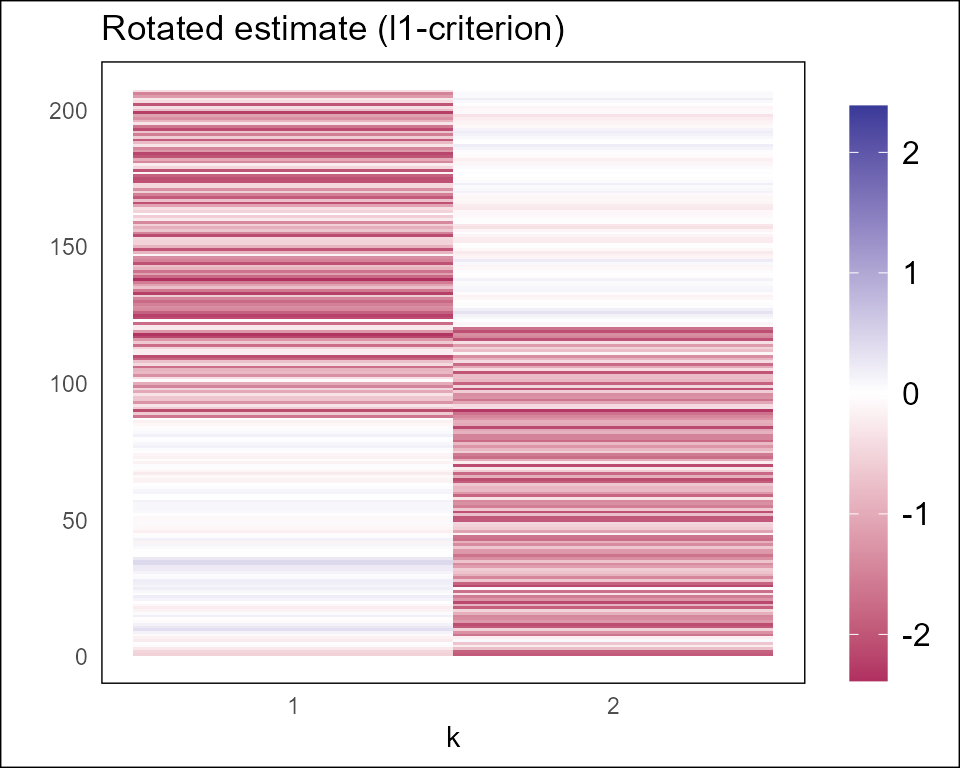
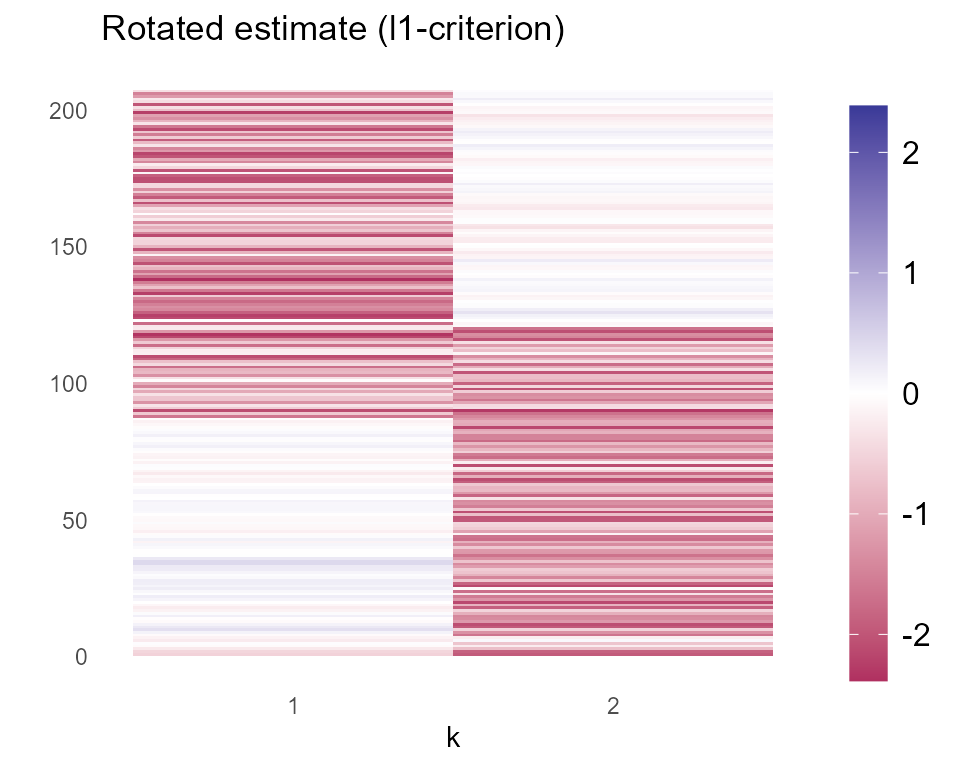
use white bg for plots, recompile site

diff --git a/docs/articles/documentation.html b/docs/articles/documentation.html
@@ -80,7 +80,7 @@
 <h2 id="intro">Introduction<a class="anchor" aria-label="anchor" href="#intro"></a>
 </h2>
 <div class="sourceCode" id="cb1"><pre class="downlit sourceCode r">
-<code class="sourceCode R"><span><span class="kw"><a href="https://rdrr.io/r/base/library.html" class="external-link">library</a></span><span class="op">(</span><span class="va"><a href="https://github.com/SimonFreyaldenhoven/l1rotation" class="external-link">l1rotation</a></span><span class="op">)</span></span></code></pre></div>
+<code class="sourceCode R"><span><span class="kw"><a href="https://rdrr.io/r/base/library.html" class="external-link">library</a></span><span class="op">(</span><span class="va"><a href="https://kobleary.github.io/l1rotation/">l1rotation</a></span><span class="op">)</span></span></code></pre></div>
 <p>The <code>l1rotation</code> package offers functionality to estimate
 the loadings matrix in factor models based on the l1-rotation criterion
 following <a href="https://simonfreyaldenhoven.github.io/papers/factor_rotation.pdf" class="external-link">Freyaldenhoven
@@ -172,13 +172,7 @@ contrasting the initial estimate <span class="math inline">\(\Lambda_0\)</span>,
 rotated estimate, <span class="math inline">\(\hat{\Lambda}^*\)</span>,
 <code>rotated_plot</code>.</p>
 <div class="sourceCode" id="cb5"><pre class="downlit sourceCode r">
-<code class="sourceCode R"><span><span class="va">lf</span><span class="op">$</span><span class="va">pc_plot</span> <span class="op">+</span> </span>
-<span>  <span class="fu">ggplot2</span><span class="fu">::</span><span class="fu"><a href="https://ggplot2.tidyverse.org/reference/theme.html" class="external-link">theme</a></span><span class="op">(</span></span>
-<span>      axis.ticks <span class="op">=</span> <span class="fu">ggplot2</span><span class="fu">::</span><span class="fu"><a href="https://ggplot2.tidyverse.org/reference/element.html" class="external-link">element_blank</a></span><span class="op">(</span><span class="op">)</span>,</span>
-<span>      panel.grid <span class="op">=</span> <span class="fu">ggplot2</span><span class="fu">::</span><span class="fu"><a href="https://ggplot2.tidyverse.org/reference/element.html" class="external-link">element_blank</a></span><span class="op">(</span><span class="op">)</span>,</span>
-<span>      panel.background <span class="op">=</span> <span class="fu">ggplot2</span><span class="fu">::</span><span class="fu"><a href="https://ggplot2.tidyverse.org/reference/element.html" class="external-link">element_rect</a></span><span class="op">(</span>fill <span class="op">=</span> <span class="st">"white"</span><span class="op">)</span>,</span>
-<span>      plot.background <span class="op">=</span> <span class="fu">ggplot2</span><span class="fu">::</span><span class="fu"><a href="https://ggplot2.tidyverse.org/reference/element.html" class="external-link">element_rect</a></span><span class="op">(</span>fill <span class="op">=</span> <span class="st">"white"</span><span class="op">)</span></span>
-<span>    <span class="op">)</span></span></code></pre></div>
+<code class="sourceCode R"><span><span class="va">lf</span><span class="op">$</span><span class="va">pc_plot</span></span></code></pre></div>
 <p><img src="documentation_files/figure-html/unnamed-chunk-5-1.png" width="480" style="display: block; margin: auto;"></p>
 <p>In the initial principal component estimate, recall that each factor
 is simply a principal component. Of the 207 variables in <span class="math inline">\(X\)</span>, the first factor loads negatively
@@ -188,13 +182,7 @@ between variables 125 and 200 and slightly negative loadings elsewhere.
 However, it may be difficult to interpret the relationship between
 variables and factors when all loadings are nonzero.</p>
 <div class="sourceCode" id="cb6"><pre class="downlit sourceCode r">
-<code class="sourceCode R"><span><span class="va">lf</span><span class="op">$</span><span class="va">rotated_plot</span> <span class="op">+</span> </span>
-<span>  <span class="fu">ggplot2</span><span class="fu">::</span><span class="fu"><a href="https://ggplot2.tidyverse.org/reference/theme.html" class="external-link">theme</a></span><span class="op">(</span></span>
-<span>      axis.ticks <span class="op">=</span> <span class="fu">ggplot2</span><span class="fu">::</span><span class="fu"><a href="https://ggplot2.tidyverse.org/reference/element.html" class="external-link">element_blank</a></span><span class="op">(</span><span class="op">)</span>,</span>
-<span>      panel.grid <span class="op">=</span> <span class="fu">ggplot2</span><span class="fu">::</span><span class="fu"><a href="https://ggplot2.tidyverse.org/reference/element.html" class="external-link">element_blank</a></span><span class="op">(</span><span class="op">)</span>,</span>
-<span>      panel.background <span class="op">=</span> <span class="fu">ggplot2</span><span class="fu">::</span><span class="fu"><a href="https://ggplot2.tidyverse.org/reference/element.html" class="external-link">element_rect</a></span><span class="op">(</span>fill <span class="op">=</span> <span class="st">"white"</span><span class="op">)</span>,</span>
-<span>      plot.background <span class="op">=</span> <span class="fu">ggplot2</span><span class="fu">::</span><span class="fu"><a href="https://ggplot2.tidyverse.org/reference/element.html" class="external-link">element_rect</a></span><span class="op">(</span>fill <span class="op">=</span> <span class="st">"white"</span><span class="op">)</span></span>
-<span>    <span class="op">)</span></span></code></pre></div>
+<code class="sourceCode R"><span><span class="va">lf</span><span class="op">$</span><span class="va">rotated_plot</span></span></code></pre></div>
 <p><img src="documentation_files/figure-html/unnamed-chunk-6-1.png" width="480" style="display: block; margin: auto;"></p>
 <p>The second estimate is a rotated version of the principal components
 estimator optimized for sparsity. It will rotate each vector of the
@@ -287,13 +275,7 @@ in the true loadings matrix, this procedure will recover it.</li>
 <span>  <span class="fu">ggplot2</span><span class="fu">::</span><span class="fu"><a href="https://ggplot2.tidyverse.org/reference/labs.html" class="external-link">labs</a></span><span class="op">(</span></span>
 <span>    title <span class="op">=</span> <span class="st">'Number of "small" loadings per factor'</span>, </span>
 <span>    caption <span class="op">=</span> <span class="fu"><a href="https://rdrr.io/r/base/paste.html" class="external-link">paste</a></span><span class="op">(</span><span class="st">'"Small" is defined as loadings less than'</span>, <span class="va">round_hn</span><span class="op">)</span></span>
-<span>  <span class="op">)</span> <span class="op">+</span> </span>
-<span>  <span class="fu">ggplot2</span><span class="fu">::</span><span class="fu"><a href="https://ggplot2.tidyverse.org/reference/theme.html" class="external-link">theme</a></span><span class="op">(</span></span>
-<span>      axis.ticks <span class="op">=</span> <span class="fu">ggplot2</span><span class="fu">::</span><span class="fu"><a href="https://ggplot2.tidyverse.org/reference/element.html" class="external-link">element_blank</a></span><span class="op">(</span><span class="op">)</span>,</span>
-<span>      panel.grid <span class="op">=</span> <span class="fu">ggplot2</span><span class="fu">::</span><span class="fu"><a href="https://ggplot2.tidyverse.org/reference/element.html" class="external-link">element_blank</a></span><span class="op">(</span><span class="op">)</span>,</span>
-<span>      panel.background <span class="op">=</span> <span class="fu">ggplot2</span><span class="fu">::</span><span class="fu"><a href="https://ggplot2.tidyverse.org/reference/element.html" class="external-link">element_rect</a></span><span class="op">(</span>fill <span class="op">=</span> <span class="st">"white"</span><span class="op">)</span>,</span>
-<span>      plot.background <span class="op">=</span> <span class="fu">ggplot2</span><span class="fu">::</span><span class="fu"><a href="https://ggplot2.tidyverse.org/reference/element.html" class="external-link">element_rect</a></span><span class="op">(</span>fill <span class="op">=</span> <span class="st">"white"</span><span class="op">)</span></span>
-<span>    <span class="op">)</span></span></code></pre></div>
+<span>  <span class="op">)</span></span></code></pre></div>
 <p><img src="documentation_files/figure-html/unnamed-chunk-9-1.png" width="480" style="display: block; margin: auto;"></p>
 <p>Finally, given the testing plot above, we can conclude that factors 1
 and 2 are likely local since they have enough “small” loadings (i.e.,

diff --git a/docs/reference/example_data.html b/docs/reference/example_data.html
@@ -1,5 +1,5 @@
 <!DOCTYPE html>
-<!-- Generated by pkgdown: do not edit by hand --><html lang="en"><head><meta http-equiv="Content-Type" content="text/html; charset=UTF-8"><meta charset="utf-8"><meta http-equiv="X-UA-Compatible" content="IE=edge"><meta name="viewport" content="width=device-width, initial-scale=1, shrink-to-fit=no"><title>Example data with four factors from the replication files of Freyaldenhoven et. al (2023). — example_data • l1rotation</title><script src="../lightswitch.js"></script><script src="../deps/jquery-3.6.0/jquery-3.6.0.min.js"></script><meta name="viewport" content="width=device-width, initial-scale=1, shrink-to-fit=no"><link href="../deps/bootstrap-5.3.1/bootstrap.min.css" rel="stylesheet"><script src="../deps/bootstrap-5.3.1/bootstrap.bundle.min.js"></script><link href="../deps/font-awesome-6.5.2/css/all.min.css" rel="stylesheet"><link href="../deps/font-awesome-6.5.2/css/v4-shims.min.css" rel="stylesheet"><script src="../deps/headroom-0.11.0/headroom.min.js"></script><script src="../deps/headroom-0.11.0/jQuery.headroom.min.js"></script><script src="../deps/bootstrap-toc-1.0.1/bootstrap-toc.min.js"></script><script src="../deps/clipboard.js-2.0.11/clipboard.min.js"></script><script src="../deps/search-1.0.0/autocomplete.jquery.min.js"></script><script src="../deps/search-1.0.0/fuse.min.js"></script><script src="../deps/search-1.0.0/mark.min.js"></script><script src="../deps/MathJax-3.2.2/tex-chtml.min.js"></script><!-- pkgdown --><script src="../pkgdown.js"></script><link href="../extra.css" rel="stylesheet"><meta property="og:title" content="Example data with four factors from the replication files of Freyaldenhoven et. al (2023). — example_data"><meta name="description" content="Example data with four factors from the replication files of Freyaldenhoven et. al (2023)."><meta property="og:description" content="Example data with four factors from the replication files of Freyaldenhoven et. al (2023)."></head><body>
+<!-- Generated by pkgdown: do not edit by hand --><html lang="en"><head><meta http-equiv="Content-Type" content="text/html; charset=UTF-8"><meta charset="utf-8"><meta http-equiv="X-UA-Compatible" content="IE=edge"><meta name="viewport" content="width=device-width, initial-scale=1, shrink-to-fit=no"><title>Example data with four factors from the replication files of Freyaldenhoven et. al (2025). — example_data • l1rotation</title><script src="../lightswitch.js"></script><script src="../deps/jquery-3.6.0/jquery-3.6.0.min.js"></script><meta name="viewport" content="width=device-width, initial-scale=1, shrink-to-fit=no"><link href="../deps/bootstrap-5.3.1/bootstrap.min.css" rel="stylesheet"><script src="../deps/bootstrap-5.3.1/bootstrap.bundle.min.js"></script><link href="../deps/font-awesome-6.5.2/css/all.min.css" rel="stylesheet"><link href="../deps/font-awesome-6.5.2/css/v4-shims.min.css" rel="stylesheet"><script src="../deps/headroom-0.11.0/headroom.min.js"></script><script src="../deps/headroom-0.11.0/jQuery.headroom.min.js"></script><script src="../deps/bootstrap-toc-1.0.1/bootstrap-toc.min.js"></script><script src="../deps/clipboard.js-2.0.11/clipboard.min.js"></script><script src="../deps/search-1.0.0/autocomplete.jquery.min.js"></script><script src="../deps/search-1.0.0/fuse.min.js"></script><script src="../deps/search-1.0.0/mark.min.js"></script><script src="../deps/MathJax-3.2.2/tex-chtml.min.js"></script><!-- pkgdown --><script src="../pkgdown.js"></script><link href="../extra.css" rel="stylesheet"><meta property="og:title" content="Example data with four factors from the replication files of Freyaldenhoven et. al (2025). — example_data"><meta name="description" content="Example data with four factors from the replication files of Freyaldenhoven et. al (2025)."><meta property="og:description" content="Example data with four factors from the replication files of Freyaldenhoven et. al (2025)."></head><body>
     <a href="#main" class="visually-hidden-focusable">Skip to contents</a>
 
 
@@ -40,13 +40,13 @@
 <div class="row">
   <main id="main" class="col-md-9"><div class="page-header">
 
-      <h1>Example data with four factors from the replication files of Freyaldenhoven et. al (2023).</h1>
+      <h1>Example data with four factors from the replication files of <a href="https://simonfreyaldenhoven.github.io/papers/factor_rotation.pdf" class="external-link">Freyaldenhoven et. al (2025)</a>.</h1>
       <small class="dont-index">Source: <a href="https://github.com/SimonFreyaldenhoven/l1rotation/blob/HEAD/R/data.R" class="external-link"><code>R/data.R</code></a></small>
       <div class="d-none name"><code>example_data.Rd</code></div>
     </div>
 
     <div class="ref-description section level2">
-    <p>Example data with four factors from the replication files of Freyaldenhoven et. al (2023).</p>
+    <p>Example data with four factors from the replication files of <a href="https://simonfreyaldenhoven.github.io/papers/factor_rotation.pdf" class="external-link">Freyaldenhoven et. al (2025)</a>.</p>
     </div>
 
     <div class="section level2">
@@ -67,7 +67,7 @@
     </div>
     <div class="section level2">
     <h2 id="source">Source<a class="anchor" aria-label="anchor" href="#source"></a></h2>
-    <p>Dataset available as a .mat file can be found under local_factors.zip <a href="https://simonfreyaldenhoven.github.io/software/" class="external-link">https://simonfreyaldenhoven.github.io/software/</a></p>
+    <p>Dataset available as a .mat file can be generated from local_factors.zip <a href="https://simonfreyaldenhoven.github.io/software/" class="external-link">https://simonfreyaldenhoven.github.io/software/</a></p>
     </div>
 
   </main><aside class="col-md-3"><nav id="toc" aria-label="Table of contents"><h2>On this page</h2>

diff --git a/docs/404.html b/docs/404.html
@@ -6,20 +6,20 @@
 <meta http-equiv="X-UA-Compatible" content="IE=edge">
 <meta name="viewport" content="width=device-width, initial-scale=1, shrink-to-fit=no">
 <title>Page not found (404) • l1rotation</title>
-<script src="lightswitch.js"></script><script src="deps/jquery-3.6.0/jquery-3.6.0.min.js"></script><meta name="viewport" content="width=device-width, initial-scale=1, shrink-to-fit=no">
-<link href="deps/bootstrap-5.3.1/bootstrap.min.css" rel="stylesheet">
-<script src="deps/bootstrap-5.3.1/bootstrap.bundle.min.js"></script><link href="deps/font-awesome-6.5.2/css/all.min.css" rel="stylesheet">
-<link href="deps/font-awesome-6.5.2/css/v4-shims.min.css" rel="stylesheet">
-<script src="deps/headroom-0.11.0/headroom.min.js"></script><script src="deps/headroom-0.11.0/jQuery.headroom.min.js"></script><script src="deps/bootstrap-toc-1.0.1/bootstrap-toc.min.js"></script><script src="deps/clipboard.js-2.0.11/clipboard.min.js"></script><script src="deps/search-1.0.0/autocomplete.jquery.min.js"></script><script src="deps/search-1.0.0/fuse.min.js"></script><script src="deps/search-1.0.0/mark.min.js"></script><script src="deps/MathJax-3.2.2/tex-chtml.min.js"></script><!-- pkgdown --><script src="pkgdown.js"></script><link href="extra.css" rel="stylesheet">
+<script src="https://kobleary.github.io/l1rotation/lightswitch.js"></script><script src="https://kobleary.github.io/l1rotation/deps/jquery-3.6.0/jquery-3.6.0.min.js"></script><meta name="viewport" content="width=device-width, initial-scale=1, shrink-to-fit=no">
+<link href="https://kobleary.github.io/l1rotation/deps/bootstrap-5.3.1/bootstrap.min.css" rel="stylesheet">
+<script src="https://kobleary.github.io/l1rotation/deps/bootstrap-5.3.1/bootstrap.bundle.min.js"></script><link href="https://kobleary.github.io/l1rotation/deps/font-awesome-6.5.2/css/all.min.css" rel="stylesheet">
+<link href="https://kobleary.github.io/l1rotation/deps/font-awesome-6.5.2/css/v4-shims.min.css" rel="stylesheet">
+<script src="https://kobleary.github.io/l1rotation/deps/headroom-0.11.0/headroom.min.js"></script><script src="https://kobleary.github.io/l1rotation/deps/headroom-0.11.0/jQuery.headroom.min.js"></script><script src="https://kobleary.github.io/l1rotation/deps/bootstrap-toc-1.0.1/bootstrap-toc.min.js"></script><script src="https://kobleary.github.io/l1rotation/deps/clipboard.js-2.0.11/clipboard.min.js"></script><script src="https://kobleary.github.io/l1rotation/deps/search-1.0.0/autocomplete.jquery.min.js"></script><script src="https://kobleary.github.io/l1rotation/deps/search-1.0.0/fuse.min.js"></script><script src="https://kobleary.github.io/l1rotation/deps/search-1.0.0/mark.min.js"></script><script src="https://kobleary.github.io/l1rotation/deps/MathJax-3.2.2/tex-chtml.min.js"></script><!-- pkgdown --><script src="https://kobleary.github.io/l1rotation/pkgdown.js"></script><link href="https://kobleary.github.io/l1rotation/extra.css" rel="stylesheet">
 <meta property="og:title" content="Page not found (404)">
 </head>
 <body>
-    <a href="#main" class="visually-hidden-focusable">Skip to contents</a>
+    <a href="https://kobleary.github.io/l1rotation/#main" class="visually-hidden-focusable">Skip to contents</a>
 
 
     <nav class="navbar navbar-expand-lg fixed-top " aria-label="Site navigation"><div class="container">
 
-    <a class="navbar-brand me-2" href="index.html">l1rotation</a>
+    <a class="navbar-brand me-2" href="https://kobleary.github.io/l1rotation/index.html">l1rotation</a>
 
     <small class="nav-text text-muted me-auto" data-bs-toggle="tooltip" data-bs-placement="bottom" title="">0.0.1</small>
 
@@ -30,16 +30,16 @@
 
     <div id="navbar" class="collapse navbar-collapse ms-3">
       <ul class="navbar-nav me-auto">
-<li class="nav-item"><a class="nav-link" href="reference/index.html">Reference</a></li>
+<li class="nav-item"><a class="nav-link" href="https://kobleary.github.io/l1rotation/reference/index.html">Reference</a></li>
 <li class="nav-item dropdown">
   <button class="nav-link dropdown-toggle" type="button" id="dropdown-articles" data-bs-toggle="dropdown" aria-expanded="false" aria-haspopup="true">Articles</button>
   <ul class="dropdown-menu" aria-labelledby="dropdown-articles">
-<li><a class="dropdown-item" href="articles/documentation.html">Getting Started</a></li>
-    <li><a class="dropdown-item" href="articles/intuition.html">Background and Intuition</a></li>
-    <li><a class="dropdown-item" href="articles/macro_application.html">Application</a></li>
+<li><a class="dropdown-item" href="https://kobleary.github.io/l1rotation/articles/documentation.html">Getting Started</a></li>
+    <li><a class="dropdown-item" href="https://kobleary.github.io/l1rotation/articles/intuition.html">Background and Intuition</a></li>
+    <li><a class="dropdown-item" href="https://kobleary.github.io/l1rotation/articles/macro_application.html">Application</a></li>
   </ul>
 </li>
-<li class="nav-item"><a class="nav-link" href="news/index.html">Changelog</a></li>
+<li class="nav-item"><a class="nav-link" href="https://kobleary.github.io/l1rotation/news/index.html">Changelog</a></li>
       </ul>
 <ul class="navbar-nav">
 <li class="nav-item"><form class="form-inline" role="search">

diff --git a/docs/articles/macro_application.html b/docs/articles/macro_application.html
@@ -81,10 +81,12 @@
 
     <section class="level2"><h2 id="macroeconomic-indicators">Macroeconomic Indicators<a class="anchor" aria-label="anchor" href="#macroeconomic-indicators"></a>
 </h2>
-<p>Let’s now apply the <code>l1rotation</code> package to a large panel of US macroeconomic indicators. The below dataset is the FRED_QD data collected and maintained by Michael W. McCracken available <a href="https://www.stlouisfed.org/research/economists/mccracken/fred-databases" class="external-link">here</a>. The below final sample is also used in the paper and can be found under the local_factors.zip <a href="https://simonfreyaldenhoven.github.io/software/" class="external-link">here</a>. Let’s read it in.</p>
+<p>Let’s now apply the <code>l1rotation</code> package to a large panel of US macroeconomic indicators, following one of the examples provided in <a href="https://simonfreyaldenhoven.github.io/papers/factor_rotation.pdf" class="external-link">Freyaldenhoven (2025)</a>. The below dataset is the FRED_QD data collected and maintained by Michael W. McCracken available <a href="https://www.stlouisfed.org/research/economists/mccracken/fred-databases" class="external-link">here</a>.</p>
+<p>This specific example uses data from 1967Q1-2019Q1 and follows transformations recommended by <a href="https://www.jstor.org/stable/44166591" class="external-link">McCracken and Ng (2016)</a> to remove outliers. All aggregated data series are dropped as well. So the final cleaned sample used in the paper and below consists of only disaggregated stationary time series and can be found <a href="https://raw.githubusercontent.com/kobleary/l1rotation/refs/heads/main/vignettes/fred.csv" class="external-link">here</a>. For more information, see the paper.</p>
+<p>Let’s read it in.</p>
 <div class="cell">
 <div class="sourceCode cell-code" id="cb1"><pre class="downlit sourceCode r">
-<code class="sourceCode R"><span><span class="kw"><a href="https://rdrr.io/r/base/library.html" class="external-link">library</a></span><span class="op">(</span><span class="va"><a href="https://github.com/SimonFreyaldenhoven/l1rotation" class="external-link">l1rotation</a></span><span class="op">)</span></span>
+<code class="sourceCode R"><span><span class="kw"><a href="https://rdrr.io/r/base/library.html" class="external-link">library</a></span><span class="op">(</span><span class="va"><a href="https://kobleary.github.io/l1rotation/">l1rotation</a></span><span class="op">)</span></span>
 <span></span>
 <span><span class="va">fred</span> <span class="op">&lt;-</span> <span class="fu"><a href="https://rdrr.io/r/utils/read.table.html" class="external-link">read.csv</a></span><span class="op">(</span><span class="fu"><a href="https://rdrr.io/r/base/file.path.html" class="external-link">file.path</a></span><span class="op">(</span><span class="va">me</span>, <span class="st">"fred.csv"</span><span class="op">)</span>, header <span class="op">=</span> <span class="cn">FALSE</span><span class="op">)</span></span>
 <span><span class="fu"><a href="https://rdrr.io/r/base/dim.html" class="external-link">dim</a></span><span class="op">(</span><span class="va">fred</span><span class="op">)</span></span>

diff --git a/docs/reference/index.html b/docs/reference/index.html
@@ -59,13 +59,13 @@
           <code><a href="example_data.html">example_data</a></code>
 
         </dt>
-        <dd>Example data with four factors from the replication files of Freyaldenhoven et. al (2023).</dd>
+        <dd>Example data with four factors from the replication files of <a href="https://simonfreyaldenhoven.github.io/papers/factor_rotation.pdf" class="external-link">Freyaldenhoven et. al (2025)</a>.</dd>
       </dl><dl><dt>
 
           <code><a href="find_local_factors.html">find_local_factors()</a></code>
 
         </dt>
-        <dd>Find the rotation of the loading matrix with the smallest l1-norm, as in <code><a href="https://rdrr.io/pkg/l1rotation/man/local_factors.html" class="external-link">local_factors()</a></code>, with additional flexibility.</dd>
+        <dd>Find the rotation of the loading matrix with the smallest l1-norm, as in <code><a href="../reference/local_factors.html">local_factors()</a></code>, with additional flexibility.</dd>
       </dl><dl><dt>
 
           <code><a href="local_factors.html">local_factors()</a></code>
@@ -77,7 +77,7 @@
           <code><a href="test_local_factors.html">test_local_factors()</a></code>
 
         </dt>
-        <dd>Test for the presence of local factors, as in <code><a href="https://rdrr.io/pkg/l1rotation/man/local_factors.html" class="external-link">local_factors()</a></code>, with additional flexibility.</dd>
+        <dd>Test for the presence of local factors, as in <code><a href="../reference/local_factors.html">local_factors()</a></code>, with additional flexibility.</dd>
       </dl></div>
   </main></div>
 

diff --git a/docs/index.html b/docs/index.html
@@ -86,7 +86,7 @@
 <p>Find a minimal example below. For more examples see the package <a href="https://cran.r-project.org/package=l1rotation/l1rotation.pdf" class="external-link">documentation</a> and <a href="https://cran.r-project.org/package=l1rotation/vignettes/documentation.html" class="external-link">vignette</a>.</p>
 <div class="sourceCode" id="cb2"><pre class="downlit sourceCode r">
 <code class="sourceCode R"><span></span>
-<span><span class="kw"><a href="https://rdrr.io/r/base/library.html" class="external-link">library</a></span><span class="op">(</span><span class="va"><a href="https://github.com/SimonFreyaldenhoven/l1rotation" class="external-link">l1rotation</a></span><span class="op">)</span></span>
+<span><span class="kw"><a href="https://rdrr.io/r/base/library.html" class="external-link">library</a></span><span class="op">(</span><span class="va"><a href="https://kobleary.github.io/l1rotation/">l1rotation</a></span><span class="op">)</span></span>
 <span><span class="fu"><a href="https://rdrr.io/r/base/Random.html" class="external-link">set.seed</a></span><span class="op">(</span><span class="fl">916</span><span class="op">)</span> </span>
 <span></span>
 <span><span class="co"># Minimal example with 4 factors, where X is a 224 by 207 matrix</span></span>

diff --git a/docs/reference/l1rotation-package.html b/docs/reference/l1rotation-package.html
@@ -52,7 +52,8 @@
 
     <div class="section level2">
     <h2 id="see-also">See also<a class="anchor" aria-label="anchor" href="#see-also"></a></h2>
-    <div class="dont-index"><p>Useful links:</p><ul><li><p><a href="https://github.com/SimonFreyaldenhoven/l1rotation" class="external-link">https://github.com/SimonFreyaldenhoven/l1rotation</a></p></li>
+    <div class="dont-index"><p>Useful links:</p><ul><li><p><a href="https://kobleary.github.io/l1rotation/">https://kobleary.github.io/l1rotation/</a></p></li>
+<li><p><a href="https://github.com/SimonFreyaldenhoven/l1rotation" class="external-link">https://github.com/SimonFreyaldenhoven/l1rotation</a></p></li>
 <li><p>Report bugs at <a href="https://github.com/SimonFreyaldenhoven/l1rotation/issues" class="external-link">https://github.com/SimonFreyaldenhoven/l1rotation/issues</a></p></li>
 </ul></div>
     </div>

diff --git a/docs/reference/l1rotation.html b/docs/reference/l1rotation.html
@@ -1,0 +1,8 @@
+<html>
+  <head>
+    <meta http-equiv="refresh" content="0;URL=https://kobleary.github.io/l1rotation/reference/l1rotation-package.html" />
+    <meta name="robots" content="noindex">
+    <link rel="canonical" href="https://kobleary.github.io/l1rotation/reference/l1rotation-package.html">
+  </head>
+</html>
+
